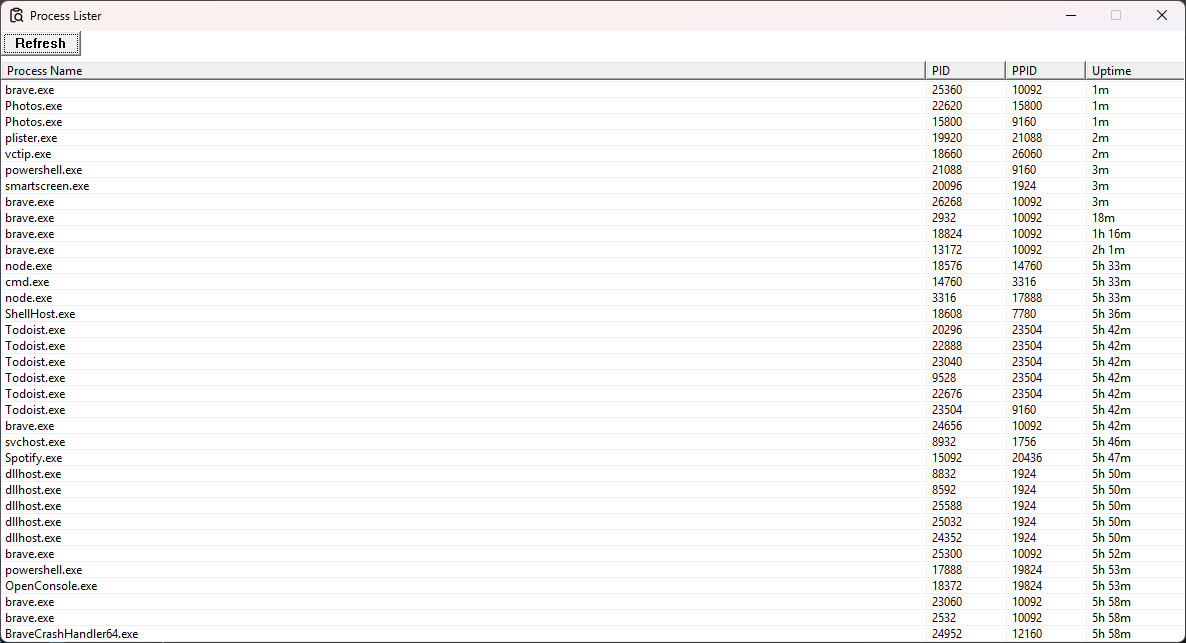
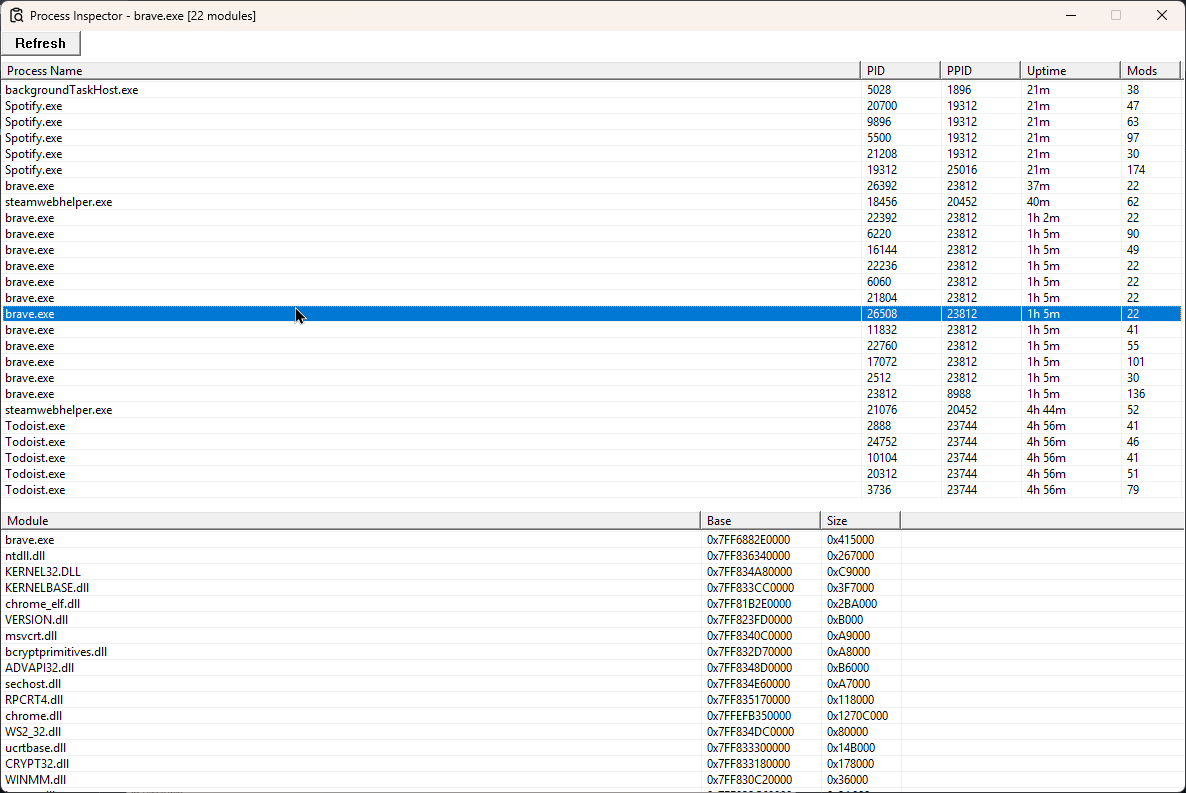
merged module-lister: added module inspection & project  renamed to process inspector

Changed region(s): [[0.0, 0.0, 0.9983, 1.0], [0.9359, 0.0, 1.0, 0.0311]]

diff --git a/README.md b/README.md
@@ -1,6 +1,6 @@
-# Windows Process Lister
+# Process Inspector
 
-Lightweight Windows process viewer written in C using the Win32 API. Lists all running processes with their name, PID, PPID, and uptime.
+Lightweight Windows process &amp; module viewer written in C using the Win32 API. Lists all running processes with their name, PID, PPID, uptime, and loaded modules.
 
 ![preview](media/preview.png)
 
@@ -12,12 +12,13 @@ Lightweight Windows process viewer written in C using the Win32 API. Lists all r
 ## Usage
  
 ```powershell
-.\plister.exe
+.\pinspector.exe
 ```
  
 - Sort by any column — click the header 
 - Kill a process — right-click and confirm
 - Reload the list — click the Refresh button
+- Inspect modules — click a process to view its DLLs
 
 > Some processes won't show uptime and cannot be killed, unless you run as **Administrator**. 
 